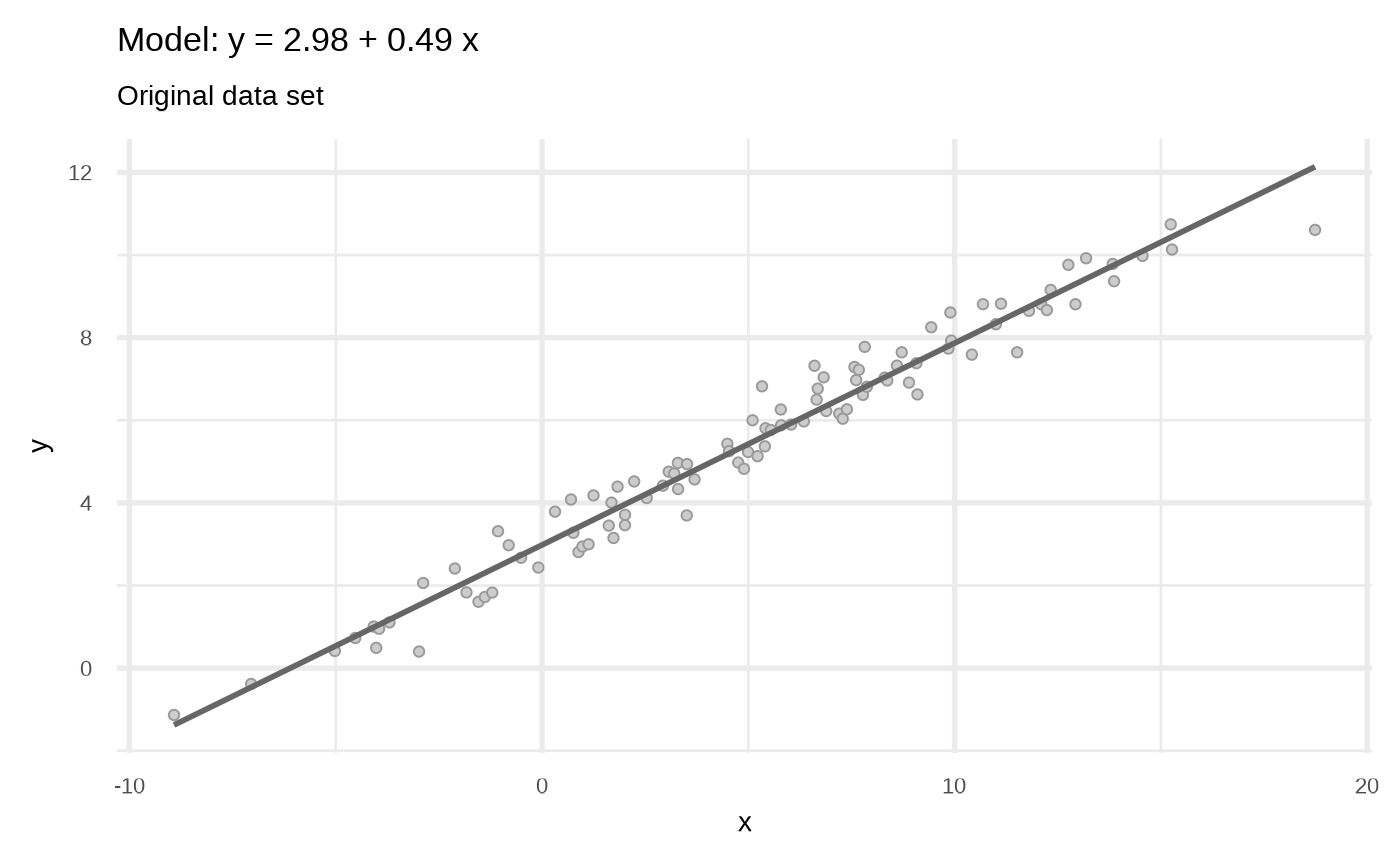
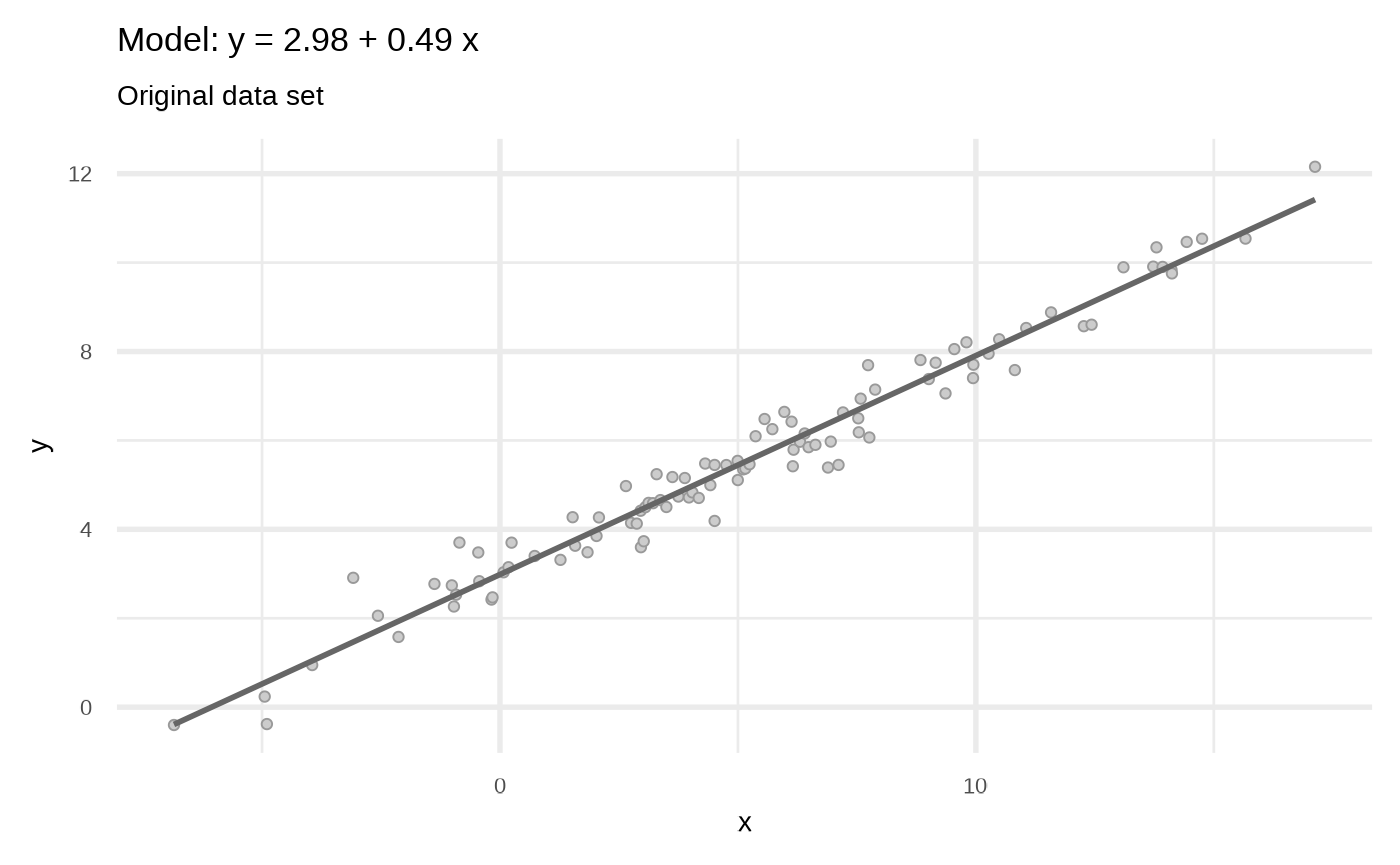
Built site for klassets: 0.0.0.9000@e0f31e2

diff --git a/articles/Quasi-Anscombe-data-sets.html b/articles/Quasi-Anscombe-data-sets.html
@@ -109,15 +109,15 @@
 
 <span class="va">funktion</span> <span class="op">&lt;-</span> <span class="kw">function</span><span class="op">(</span><span class="va">x</span><span class="op">)</span><span class="op">{</span> <span class="fl">2</span> <span class="op">*</span> <span class="fu"><a href="https://rdrr.io/r/base/Trig.html" class="external-link">sin</a></span><span class="op">(</span><span class="va">x</span><span class="op">*</span><span class="fu"><a href="https://rdrr.io/r/base/diff.html" class="external-link">diff</a></span><span class="op">(</span><span class="fu"><a href="https://rdrr.io/r/base/range.html" class="external-link">range</a></span><span class="op">(</span><span class="va">x</span><span class="op">)</span><span class="op">)</span><span class="op">)</span> <span class="op">}</span>
 
-<span class="va">df2_2</span> <span class="op">&lt;-</span> <span class="fu"><a href="../reference/sim_quasianscombe_set_2.html">sim_quasianscombe_set_2</a></span><span class="op">(</span><span class="va">df</span>, fun <span class="op">=</span> <span class="va">funktion</span><span class="op">)</span></code></pre></div>
+<span class="va">df2_2</span> <span class="op">&lt;-</span> <span class="fu"><a href="../reference/sim_quasianscombe_set_2.html">sim_quasianscombe_set_2</a></span><span class="op">(</span><span class="va">df</span>, fun <span class="op">=</span> <span class="va">funktion</span>, residual_factor <span class="op">=</span> <span class="fl">1.25</span><span class="op">)</span></code></pre></div>
 </div>
 <div class="section level3">
 <h3 id="set-3-extreme-values">Set 3: Extreme values<a class="anchor" aria-label="anchor" href="#set-3-extreme-values"></a>
 </h3>
 <div class="sourceCode" id="cb4"><pre class="downlit sourceCode r">
-<code class="sourceCode R"><span class="va">df3_1</span> <span class="op">&lt;-</span> <span class="fu"><a href="../reference/sim_quasianscombe_set_3.html">sim_quasianscombe_set_3</a></span><span class="op">(</span><span class="va">df</span>, prop <span class="op">=</span> <span class="fl">0.1</span><span class="op">)</span>
+<code class="sourceCode R"><span class="va">df3_1</span> <span class="op">&lt;-</span> <span class="fu"><a href="../reference/sim_quasianscombe_set_3.html">sim_quasianscombe_set_3</a></span><span class="op">(</span><span class="va">df</span>, prop <span class="op">=</span> <span class="fl">0.10</span><span class="op">)</span>
 
-<span class="va">df3_2</span> <span class="op">&lt;-</span> <span class="fu"><a href="../reference/sim_quasianscombe_set_3.html">sim_quasianscombe_set_3</a></span><span class="op">(</span><span class="va">df</span>, prop <span class="op">=</span> <span class="fl">0.1</span>, residual_factor <span class="op">=</span> <span class="fl">0</span><span class="op">)</span></code></pre></div>
+<span class="va">df3_2</span> <span class="op">&lt;-</span> <span class="fu"><a href="../reference/sim_quasianscombe_set_3.html">sim_quasianscombe_set_3</a></span><span class="op">(</span><span class="va">df</span>, prop <span class="op">=</span> <span class="fl">0.15</span>, residual_factor <span class="op">=</span> <span class="fl">0</span><span class="op">)</span></code></pre></div>
 </div>
 <div class="section level3">
 <h3 id="set-4-clusters">Set 4: Clusters<a class="anchor" aria-label="anchor" href="#set-4-clusters"></a>
@@ -141,11 +141,11 @@
 <div class="sourceCode" id="cb7"><pre class="downlit sourceCode r">
 <code class="sourceCode R"><span class="va">df6_1</span> <span class="op">&lt;-</span> <span class="fu"><a href="../reference/sim_quasianscombe_set_6.html">sim_quasianscombe_set_6</a></span><span class="op">(</span><span class="va">df</span>, residual_factor <span class="op">=</span> <span class="fl">1</span><span class="op">)</span>
 
-<span class="va">df6_2</span> <span class="op">&lt;-</span> <span class="fu"><a href="../reference/sim_quasianscombe_set_6.html">sim_quasianscombe_set_6</a></span><span class="op">(</span><span class="va">df</span>, b1_factor <span class="op">=</span> <span class="fl">0</span>, residual_factor <span class="op">=</span> <span class="fl">0.1</span><span class="op">)</span></code></pre></div>
+<span class="va">df6_2</span> <span class="op">&lt;-</span> <span class="fu"><a href="../reference/sim_quasianscombe_set_6.html">sim_quasianscombe_set_6</a></span><span class="op">(</span><span class="va">df</span>, groups <span class="op">=</span> <span class="fl">4</span>, b1_factor <span class="op">=</span> <span class="fl">0</span>, residual_factor <span class="op">=</span> <span class="fl">0.1</span><span class="op">)</span></code></pre></div>
 </div>
 </div>
 <div class="section level2">
-<h2 id="compare-results">Compare results<a class="anchor" aria-label="anchor" href="#compare-results"></a>
+<h2 id="combine-results">Combine results<a class="anchor" aria-label="anchor" href="#combine-results"></a>
 </h2>
 <div class="sourceCode" id="cb8"><pre class="downlit sourceCode r">
 <code class="sourceCode R"><span class="kw"><a href="https://rdrr.io/r/base/library.html" class="external-link">library</a></span><span class="op">(</span><span class="va"><a href="https://dplyr.tidyverse.org" class="external-link">dplyr</a></span>, warn.conflicts <span class="op">=</span> <span class="cn">FALSE</span><span class="op">)</span>
@@ -183,7 +183,7 @@
 <span class="op">}</span></code></pre></div>
 </div>
 <div class="section level2">
-<h2 id="visually">Visually<a class="anchor" aria-label="anchor" href="#visually"></a>
+<h2 id="visual-representation-of-the-data-sets">Visual representation of the data sets<a class="anchor" aria-label="anchor" href="#visual-representation-of-the-data-sets"></a>
 </h2>
 <div class="sourceCode" id="cb10"><pre class="downlit sourceCode r">
 <code class="sourceCode R"><span class="va">pxy</span> <span class="op">&lt;-</span> <span class="fu"><a href="https://ggplot2.tidyverse.org/reference/ggplot.html" class="external-link">ggplot</a></span><span class="op">(</span><span class="va">dfs</span>, <span class="fu"><a href="https://ggplot2.tidyverse.org/reference/aes.html" class="external-link">aes</a></span><span class="op">(</span><span class="va">x</span>, <span class="va">y</span><span class="op">)</span><span class="op">)</span> <span class="op">+</span>
@@ -195,7 +195,7 @@
 <p><img src="Quasi-Anscombe-data-sets_files/figure-html/unnamed-chunk-10-1.png" width="700"></p>
 </div>
 <div class="section level2">
-<h2 id="coefficients-and-its-significance">Coefficients and its significance<a class="anchor" aria-label="anchor" href="#coefficients-and-its-significance"></a>
+<h2 id="checking-coefficients-and-its-significance">Checking Coefficients and its significance<a class="anchor" aria-label="anchor" href="#checking-coefficients-and-its-significance"></a>
 </h2>
 <div class="sourceCode" id="cb11"><pre class="downlit sourceCode r">
 <code class="sourceCode R"><span class="va">df_mods</span> <span class="op">&lt;-</span> <span class="va">dfs</span> |&gt; 
@@ -207,70 +207,44 @@
     <span class="co"># coef  = map(value, names)</span>
     <span class="op">)</span> 
 
-<span class="va">df_mods</span> |&gt; 
+<span class="va">dfcoef</span> <span class="op">&lt;-</span> <span class="va">df_mods</span> |&gt; 
   <span class="fu">dplyr</span><span class="fu">::</span><span class="fu"><a href="https://dplyr.tidyverse.org/reference/select.html" class="external-link">select</a></span><span class="op">(</span><span class="va">set</span>, <span class="va">parameters</span><span class="op">)</span> |&gt; 
   <span class="fu">tidyr</span><span class="fu">::</span><span class="fu"><a href="https://tidyr.tidyverse.org/reference/nest.html" class="external-link">unnest</a></span><span class="op">(</span>cols <span class="op">=</span> <span class="fu"><a href="https://rdrr.io/r/base/c.html" class="external-link">c</a></span><span class="op">(</span><span class="va">parameters</span><span class="op">)</span><span class="op">)</span> |&gt; 
-  <span class="fu">dplyr</span><span class="fu">::</span><span class="fu"><a href="https://dplyr.tidyverse.org/reference/mutate.html" class="external-link">mutate</a></span><span class="op">(</span>sig <span class="op">=</span> <span class="fu">stars.pval</span><span class="op">(</span><span class="va">p.value</span><span class="op">)</span><span class="op">)</span> |&gt; 
+  <span class="fu">dplyr</span><span class="fu">::</span><span class="fu"><a href="https://dplyr.tidyverse.org/reference/mutate.html" class="external-link">mutate</a></span><span class="op">(</span>sig <span class="op">=</span> <span class="fu">stars.pval</span><span class="op">(</span><span class="va">p.value</span><span class="op">)</span><span class="op">)</span>
+
+<span class="va">dfcoef</span>
+<span class="co">#&gt; <span style="color: #949494;"># A tibble: 22 × 7</span></span>
+<span class="co">#&gt;    set      term        estimate std.error statistic  p.value sig  </span>
+<span class="co">#&gt;    <span style="color: #949494; font-style: italic;">&lt;chr&gt;</span>    <span style="color: #949494; font-style: italic;">&lt;chr&gt;</span>          <span style="color: #949494; font-style: italic;">&lt;dbl&gt;</span>     <span style="color: #949494; font-style: italic;">&lt;dbl&gt;</span>     <span style="color: #949494; font-style: italic;">&lt;dbl&gt;</span>    <span style="color: #949494; font-style: italic;">&lt;dbl&gt;</span> <span style="color: #949494; font-style: italic;">&lt;chr&gt;</span></span>
+<span class="co">#&gt; <span style="color: #BCBCBC;"> 1</span> Original (Intercept)    2.98    0.067<span style="text-decoration: underline;">2</span>      44.4  9.65<span style="color: #949494;">e</span><span style="color: #BB0000;">-67</span> ***  </span>
+<span class="co">#&gt; <span style="color: #BCBCBC;"> 2</span> Original x              0.492   0.009<span style="text-decoration: underline;">25</span>     53.2  4.05<span style="color: #949494;">e</span><span style="color: #BB0000;">-74</span> ***  </span>
+<span class="co">#&gt; <span style="color: #BCBCBC;"> 3</span> Set 2 v1 (Intercept)    2.98    0.379        7.88 4.51<span style="color: #949494;">e</span><span style="color: #BB0000;">-12</span> ***  </span>
+<span class="co">#&gt; <span style="color: #BCBCBC;"> 4</span> Set 2 v1 x              0.492   0.052<span style="text-decoration: underline;">1</span>       9.44 1.96<span style="color: #949494;">e</span><span style="color: #BB0000;">-15</span> ***  </span>
+<span class="co">#&gt; <span style="color: #BCBCBC;"> 5</span> Set 2 v2 (Intercept)    2.98    0.219       13.6  2.35<span style="color: #949494;">e</span><span style="color: #BB0000;">-24</span> ***  </span>
+<span class="co">#&gt; <span style="color: #BCBCBC;"> 6</span> Set 2 v2 x              0.492   0.030<span style="text-decoration: underline;">2</span>      16.3  1.05<span style="color: #949494;">e</span><span style="color: #BB0000;">-29</span> ***  </span>
+<span class="co">#&gt; <span style="color: #BCBCBC;"> 7</span> Set 3 v1 (Intercept)    2.98    0.355        8.41 3.41<span style="color: #949494;">e</span><span style="color: #BB0000;">-13</span> ***  </span>
+<span class="co">#&gt; <span style="color: #BCBCBC;"> 8</span> Set 3 v1 x              0.492   0.048<span style="text-decoration: underline;">9</span>      10.1  8.57<span style="color: #949494;">e</span><span style="color: #BB0000;">-17</span> ***  </span>
+<span class="co">#&gt; <span style="color: #BCBCBC;"> 9</span> Set 3 v2 (Intercept)    2.98    0.329        9.08 1.20<span style="color: #949494;">e</span><span style="color: #BB0000;">-14</span> ***  </span>
+<span class="co">#&gt; <span style="color: #BCBCBC;">10</span> Set 3 v2 x              0.492   0.045<span style="text-decoration: underline;">3</span>      10.9  1.54<span style="color: #949494;">e</span><span style="color: #BB0000;">-18</span> ***  </span>
+<span class="co">#&gt; <span style="color: #949494;"># … with 12 more rows</span></span>
+
+<span class="va">dfcoef</span> |&gt; 
   <span class="fu">dplyr</span><span class="fu">::</span><span class="fu"><a href="https://dplyr.tidyverse.org/reference/select.html" class="external-link">select</a></span><span class="op">(</span><span class="va">set</span>, <span class="va">term</span>, <span class="va">estimate</span><span class="op">)</span> |&gt; 
   <span class="fu">tidyr</span><span class="fu">::</span><span class="fu"><a href="https://tidyr.tidyverse.org/reference/pivot_wider.html" class="external-link">pivot_wider</a></span><span class="op">(</span>names_from <span class="op">=</span> <span class="st">"term"</span>, values_from <span class="op">=</span> <span class="st">"estimate"</span><span class="op">)</span>
 <span class="co">#&gt; <span style="color: #949494;"># A tibble: 11 × 3</span></span>
 <span class="co">#&gt;    set      `(Intercept)`     x</span>
 <span class="co">#&gt;    <span style="color: #949494; font-style: italic;">&lt;chr&gt;</span>            <span style="color: #949494; font-style: italic;">&lt;dbl&gt;</span> <span style="color: #949494; font-style: italic;">&lt;dbl&gt;</span></span>
-<span class="co">#&gt; <span style="color: #BCBCBC;"> 1</span> Original          2.98 0.489</span>
-<span class="co">#&gt; <span style="color: #BCBCBC;"> 2</span> Set 2 v1          2.98 0.489</span>
-<span class="co">#&gt; <span style="color: #BCBCBC;"> 3</span> Set 2 v2          2.98 0.489</span>
-<span class="co">#&gt; <span style="color: #BCBCBC;"> 4</span> Set 3 v1          2.98 0.489</span>
-<span class="co">#&gt; <span style="color: #BCBCBC;"> 5</span> Set 3 v2          2.98 0.489</span>
-<span class="co">#&gt; <span style="color: #BCBCBC;"> 6</span> Set 4 v1          2.98 0.489</span>
-<span class="co">#&gt; <span style="color: #BCBCBC;"> 7</span> Set 4 v2          2.98 0.489</span>
-<span class="co">#&gt; <span style="color: #BCBCBC;"> 8</span> Set 5 v1          2.98 0.489</span>
-<span class="co">#&gt; <span style="color: #BCBCBC;"> 9</span> Set 5 v2          2.98 0.489</span>
-<span class="co">#&gt; <span style="color: #BCBCBC;">10</span> Set 6 v1          2.98 0.488</span>
-<span class="co">#&gt; <span style="color: #BCBCBC;">11</span> Set 6 v2          2.98 0.489</span></code></pre></div>
-</div>
-<div class="section level2">
-<h2 id="animated-version">Animated version<a class="anchor" aria-label="anchor" href="#animated-version"></a>
-</h2>
-<div class="sourceCode" id="cb12"><pre class="downlit sourceCode r">
-<code class="sourceCode R"><span class="kw"><a href="https://rdrr.io/r/base/library.html" class="external-link">library</a></span><span class="op">(</span><span class="va"><a href="https://gganimate.com" class="external-link">gganimate</a></span><span class="op">)</span>
-<span class="kw"><a href="https://rdrr.io/r/base/library.html" class="external-link">library</a></span><span class="op">(</span><span class="va"><a href="http://stringr.tidyverse.org" class="external-link">stringr</a></span><span class="op">)</span>
-
-<span class="va">dfs</span> <span class="op">&lt;-</span> <span class="va">dfs</span> |&gt; 
-  <span class="fu"><a href="https://dplyr.tidyverse.org/reference/mutate.html" class="external-link">mutate</a></span><span class="op">(</span>
-    set <span class="op">=</span> <span class="fu"><a href="https://stringr.tidyverse.org/reference/str_replace.html" class="external-link">str_replace_all</a></span><span class="op">(</span><span class="va">set</span>, <span class="st">"Set 2"</span>, <span class="st">"No linear relationship"</span><span class="op">)</span>,
-    set <span class="op">=</span> <span class="fu"><a href="https://stringr.tidyverse.org/reference/str_replace.html" class="external-link">str_replace_all</a></span><span class="op">(</span><span class="va">set</span>, <span class="st">"Set 3"</span>, <span class="st">"Extreme values (outliers)"</span><span class="op">)</span>,
-    set <span class="op">=</span> <span class="fu"><a href="https://stringr.tidyverse.org/reference/str_replace.html" class="external-link">str_replace_all</a></span><span class="op">(</span><span class="va">set</span>, <span class="st">"Set 4"</span>, <span class="st">"Cluster"</span><span class="op">)</span>,
-    set <span class="op">=</span> <span class="fu"><a href="https://stringr.tidyverse.org/reference/str_replace.html" class="external-link">str_replace_all</a></span><span class="op">(</span><span class="va">set</span>, <span class="st">"Set 5"</span>, <span class="st">"Heteroskedasticity"</span><span class="op">)</span>,
-    set <span class="op">=</span> <span class="fu"><a href="https://stringr.tidyverse.org/reference/str_replace.html" class="external-link">str_replace_all</a></span><span class="op">(</span><span class="va">set</span>, <span class="st">"Set 6"</span>, <span class="st">"Simpson's Paradox"</span><span class="op">)</span>,
-    set <span class="op">=</span> <span class="fu">forcats</span><span class="fu">::</span><span class="fu"><a href="https://forcats.tidyverse.org/reference/fct_inorder.html" class="external-link">fct_inorder</a></span><span class="op">(</span><span class="va">set</span><span class="op">)</span>
-    <span class="op">)</span>
-
-<span class="va">gga</span> <span class="op">&lt;-</span> <span class="fu"><a href="https://ggplot2.tidyverse.org/reference/ggplot.html" class="external-link">ggplot</a></span><span class="op">(</span><span class="va">dfs</span>, <span class="fu"><a href="https://ggplot2.tidyverse.org/reference/aes.html" class="external-link">aes</a></span><span class="op">(</span><span class="va">x</span>, <span class="va">y</span><span class="op">)</span><span class="op">)</span> <span class="op">+</span>
-  <span class="fu"><a href="https://ggplot2.tidyverse.org/reference/geom_point.html" class="external-link">geom_point</a></span><span class="op">(</span>shape <span class="op">=</span> <span class="fl">21</span>, fill <span class="op">=</span> <span class="st">"gray80"</span>, color <span class="op">=</span> <span class="st">"gray60"</span><span class="op">)</span> <span class="op">+</span>
-  <span class="fu"><a href="https://ggplot2.tidyverse.org/reference/geom_smooth.html" class="external-link">geom_smooth</a></span><span class="op">(</span>method <span class="op">=</span> <span class="st">"lm"</span>, se <span class="op">=</span> <span class="cn">FALSE</span>, formula <span class="op">=</span> <span class="va">y</span> <span class="op">~</span> <span class="va">x</span><span class="op">)</span> <span class="op">+</span>
-  <span class="fu"><a href="https://ggplot2.tidyverse.org/reference/facet_null.html" class="external-link">facet_null</a></span><span class="op">(</span><span class="op">)</span> <span class="op">+</span>
-   <span class="co"># then animate</span>
-  <span class="fu"><a href="https://ggplot2.tidyverse.org/reference/labs.html" class="external-link">labs</a></span><span class="op">(</span>
-    title <span class="op">=</span> <span class="st">"Iteration {closest_state}"</span>,
-    <span class="co"># caption = "Frame {frame} of {nframes}"</span>
-    caption <span class="op">=</span> <span class="st">"Quasi Anscombe sets\n(only keep the regresion coefficients, and sometimes the mean of x's)"</span>
-    <span class="op">)</span> <span class="op">+</span>
-  <span class="fu"><a href="https://gganimate.com/reference/ease_aes.html" class="external-link">ease_aes</a></span><span class="op">(</span><span class="st">"cubic-in-out"</span><span class="op">)</span> <span class="op">+</span>
-  <span class="co"># shadow_wake(wake_length = 0.2, alpha = 0.1) +</span>
-  <span class="fu"><a href="https://gganimate.com/reference/transition_states.html" class="external-link">transition_states</a></span><span class="op">(</span><span class="va">set</span>, transition_length <span class="op">=</span> <span class="fl">2</span>, state_length <span class="op">=</span> <span class="fl">1</span><span class="op">)</span>
-
-<span class="va">gga</span></code></pre></div>
-<p><img src="../../../../../../../tmp/RtmpAFeEzW/file42869a0946c/articles/Quasi-Anscombe-data-sets_files/figure-html/unnamed-chunk-12-1.gif"><!-- --></p>
-</div>
-<div class="section level2">
-<h2 id="residuals">Residuals<a class="anchor" aria-label="anchor" href="#residuals"></a>
-</h2>
-<p>Comming soon.</p>
-<div class="sourceCode" id="cb13"><pre class="downlit sourceCode r">
-<code class="sourceCode R"><span class="co"># df_mods |&gt;</span>
-<span class="co">#   pull(model) |&gt;</span>
-<span class="co">#   map(pluck, "residuals") |&gt;</span>
-<span class="co">#   map(plot)</span></code></pre></div>
+<span class="co">#&gt; <span style="color: #BCBCBC;"> 1</span> Original          2.98 0.492</span>
+<span class="co">#&gt; <span style="color: #BCBCBC;"> 2</span> Set 2 v1          2.98 0.492</span>
+<span class="co">#&gt; <span style="color: #BCBCBC;"> 3</span> Set 2 v2          2.98 0.492</span>
+<span class="co">#&gt; <span style="color: #BCBCBC;"> 4</span> Set 3 v1          2.98 0.492</span>
+<span class="co">#&gt; <span style="color: #BCBCBC;"> 5</span> Set 3 v2          2.98 0.492</span>
+<span class="co">#&gt; <span style="color: #BCBCBC;"> 6</span> Set 4 v1          2.98 0.492</span>
+<span class="co">#&gt; <span style="color: #BCBCBC;"> 7</span> Set 4 v2          2.98 0.492</span>
+<span class="co">#&gt; <span style="color: #BCBCBC;"> 8</span> Set 5 v1          2.98 0.492</span>
+<span class="co">#&gt; <span style="color: #BCBCBC;"> 9</span> Set 5 v2          2.98 0.492</span>
+<span class="co">#&gt; <span style="color: #BCBCBC;">10</span> Set 6 v1          2.98 0.492</span>
+<span class="co">#&gt; <span style="color: #BCBCBC;">11</span> Set 6 v2          2.98 0.492</span></code></pre></div>
 </div>
   </main><aside class="col-md-3"><nav id="toc"><h2>On this page</h2>
     </nav></aside>
